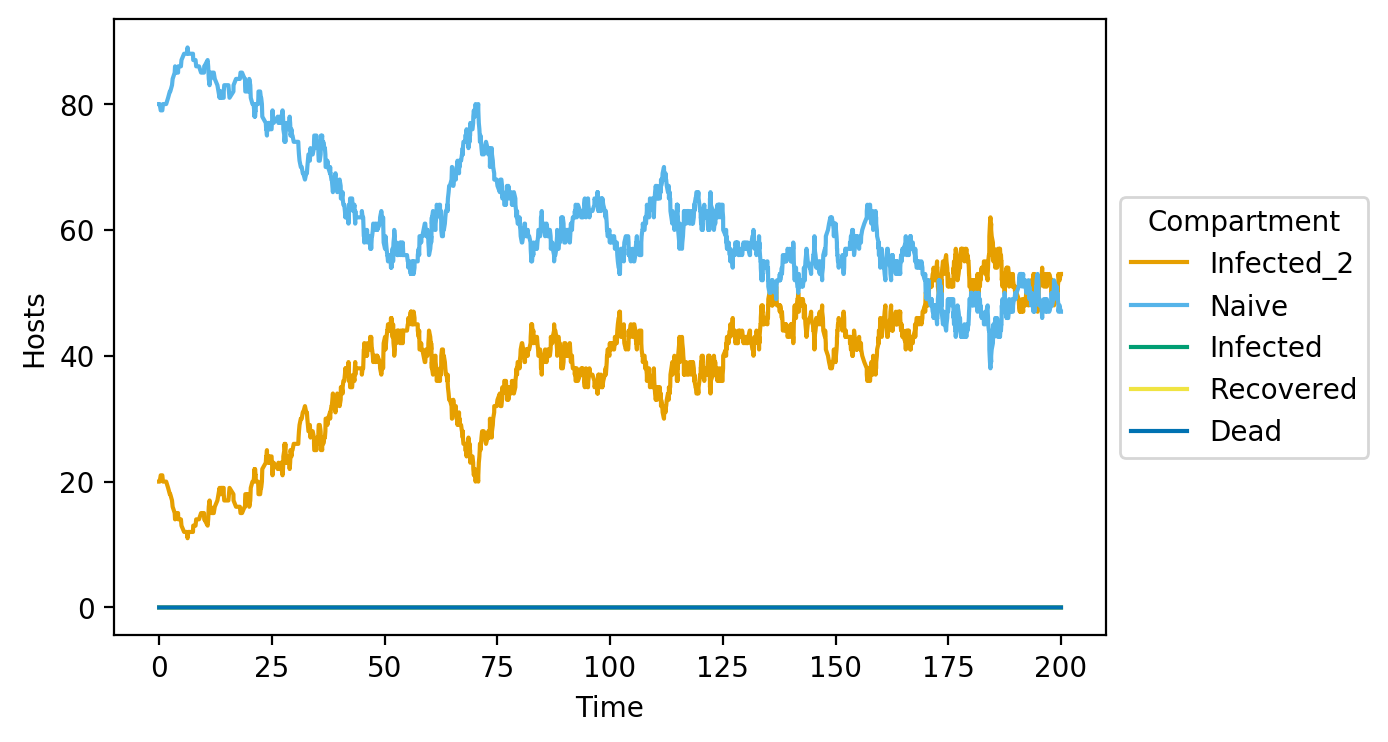
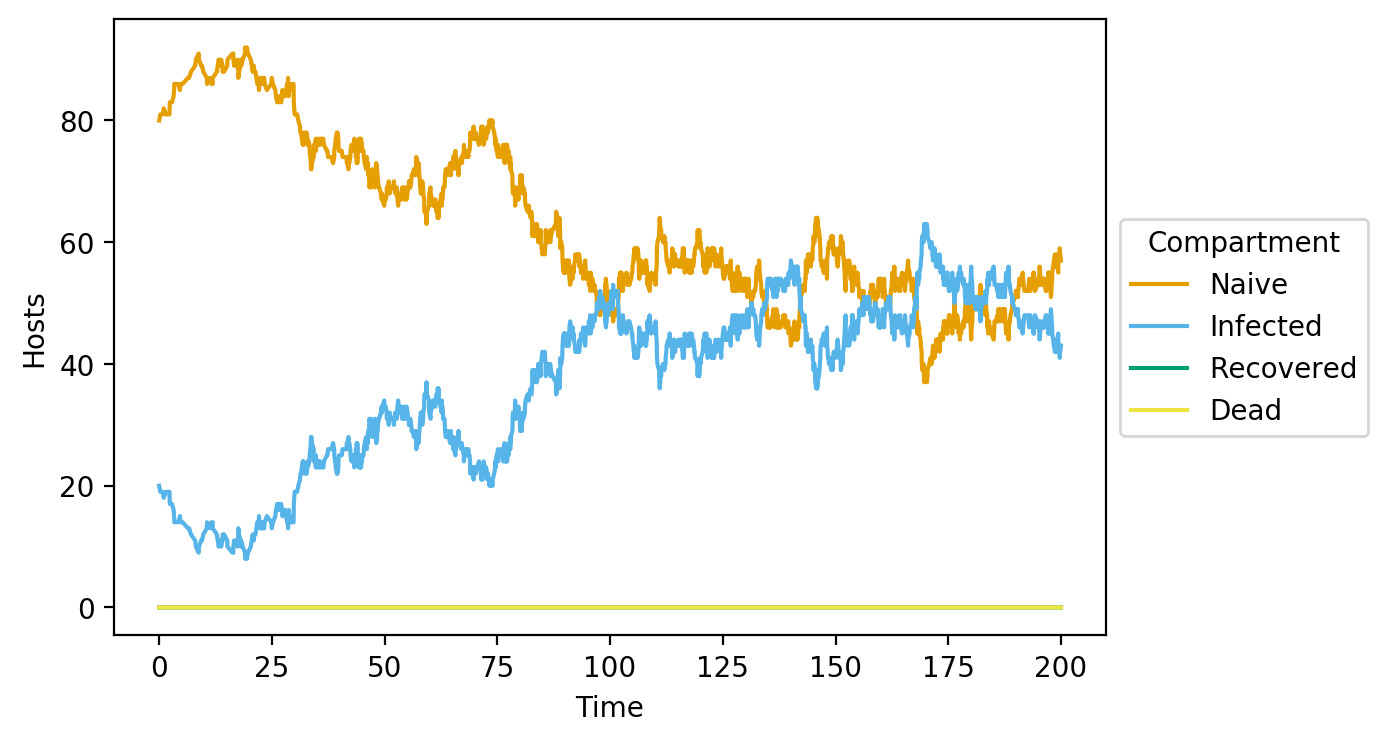
Fixed plotting and data wrangling bug where Infected_2 wasn't dropped.

diff --git a/opqua/internal/data.py b/opqua/internal/data.py
@@ -256,6 +256,9 @@ def compartmentDf(
         grouped[compartment_names[1]] = ( grouped[ compartment_names[1] ]
             + grouped[ compartment_names[1] + '_2' ] )
         grouped = grouped.drop( columns=[ compartment_names[1] + '_2' ])
+    elif ( compartment_names[1] + '_2' in grouped.columns ):
+        grouped[compartment_names[1]] = grouped[ compartment_names[1] + '_2' ]
+        grouped = grouped.drop( columns=[ compartment_names[1] + '_2' ])
 
     for comp_name in compartment_names:
         if comp_name not in grouped.columns:

diff --git a/README.md b/README.md
@@ -11,8 +11,7 @@ Opqua
 Taken from D. F. Gómez Aldana's
 [muysca-spanish dictionary](http://muysca.cubun.org/opqua).
 
-### Opqua is an epidemiological modeling framework for pathogen population
-### genetics and evolution.
+### Opqua is an epidemiological modeling framework for pathogen population genetics and evolution.
 
 Opqua stochastically simulates pathogens with specific, evolving genotypes that
 spread through populations of hosts that can have specific immune profiles.
